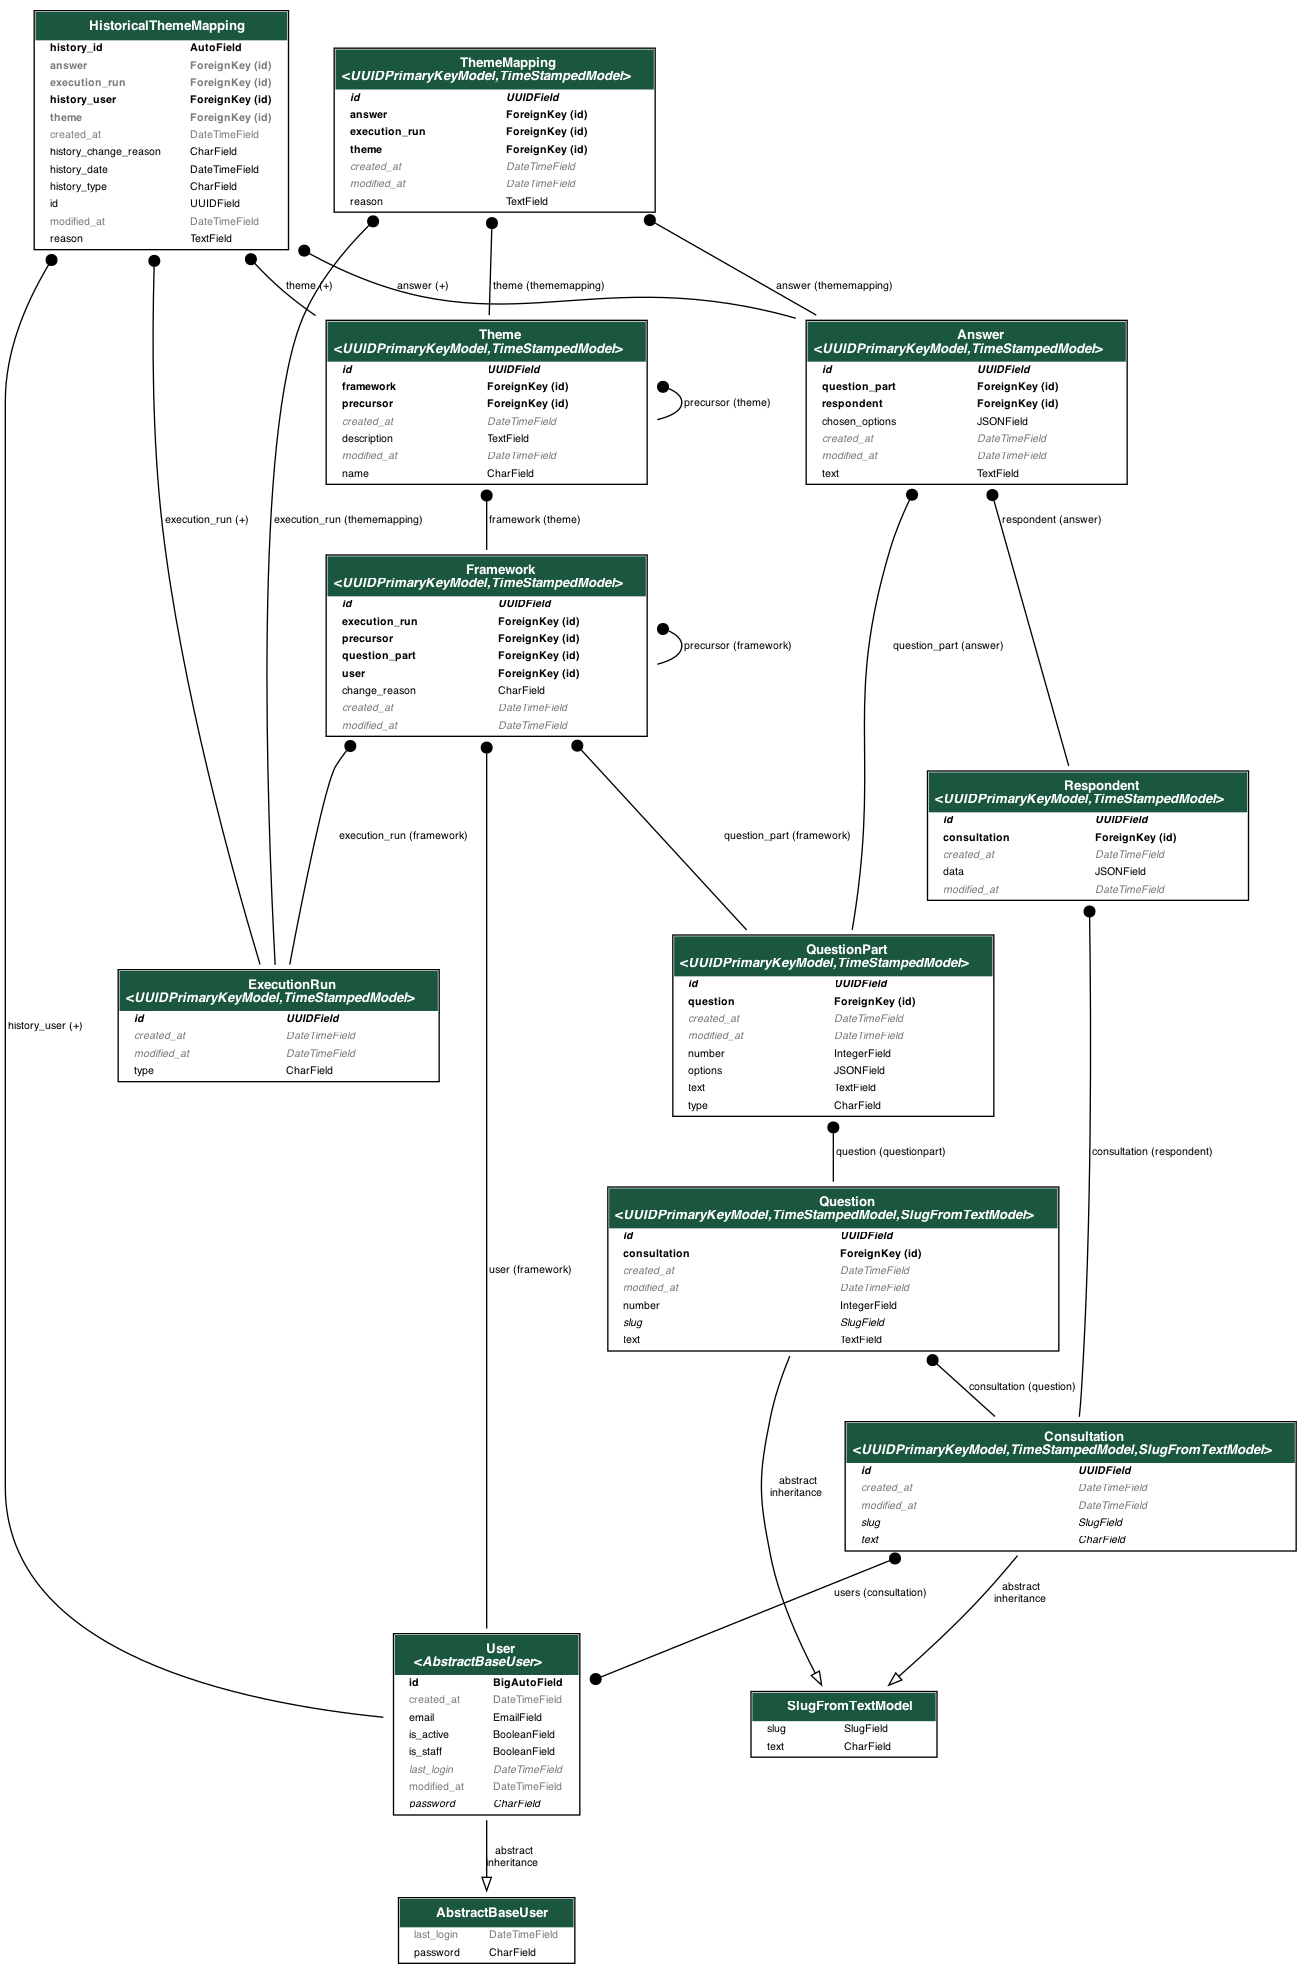
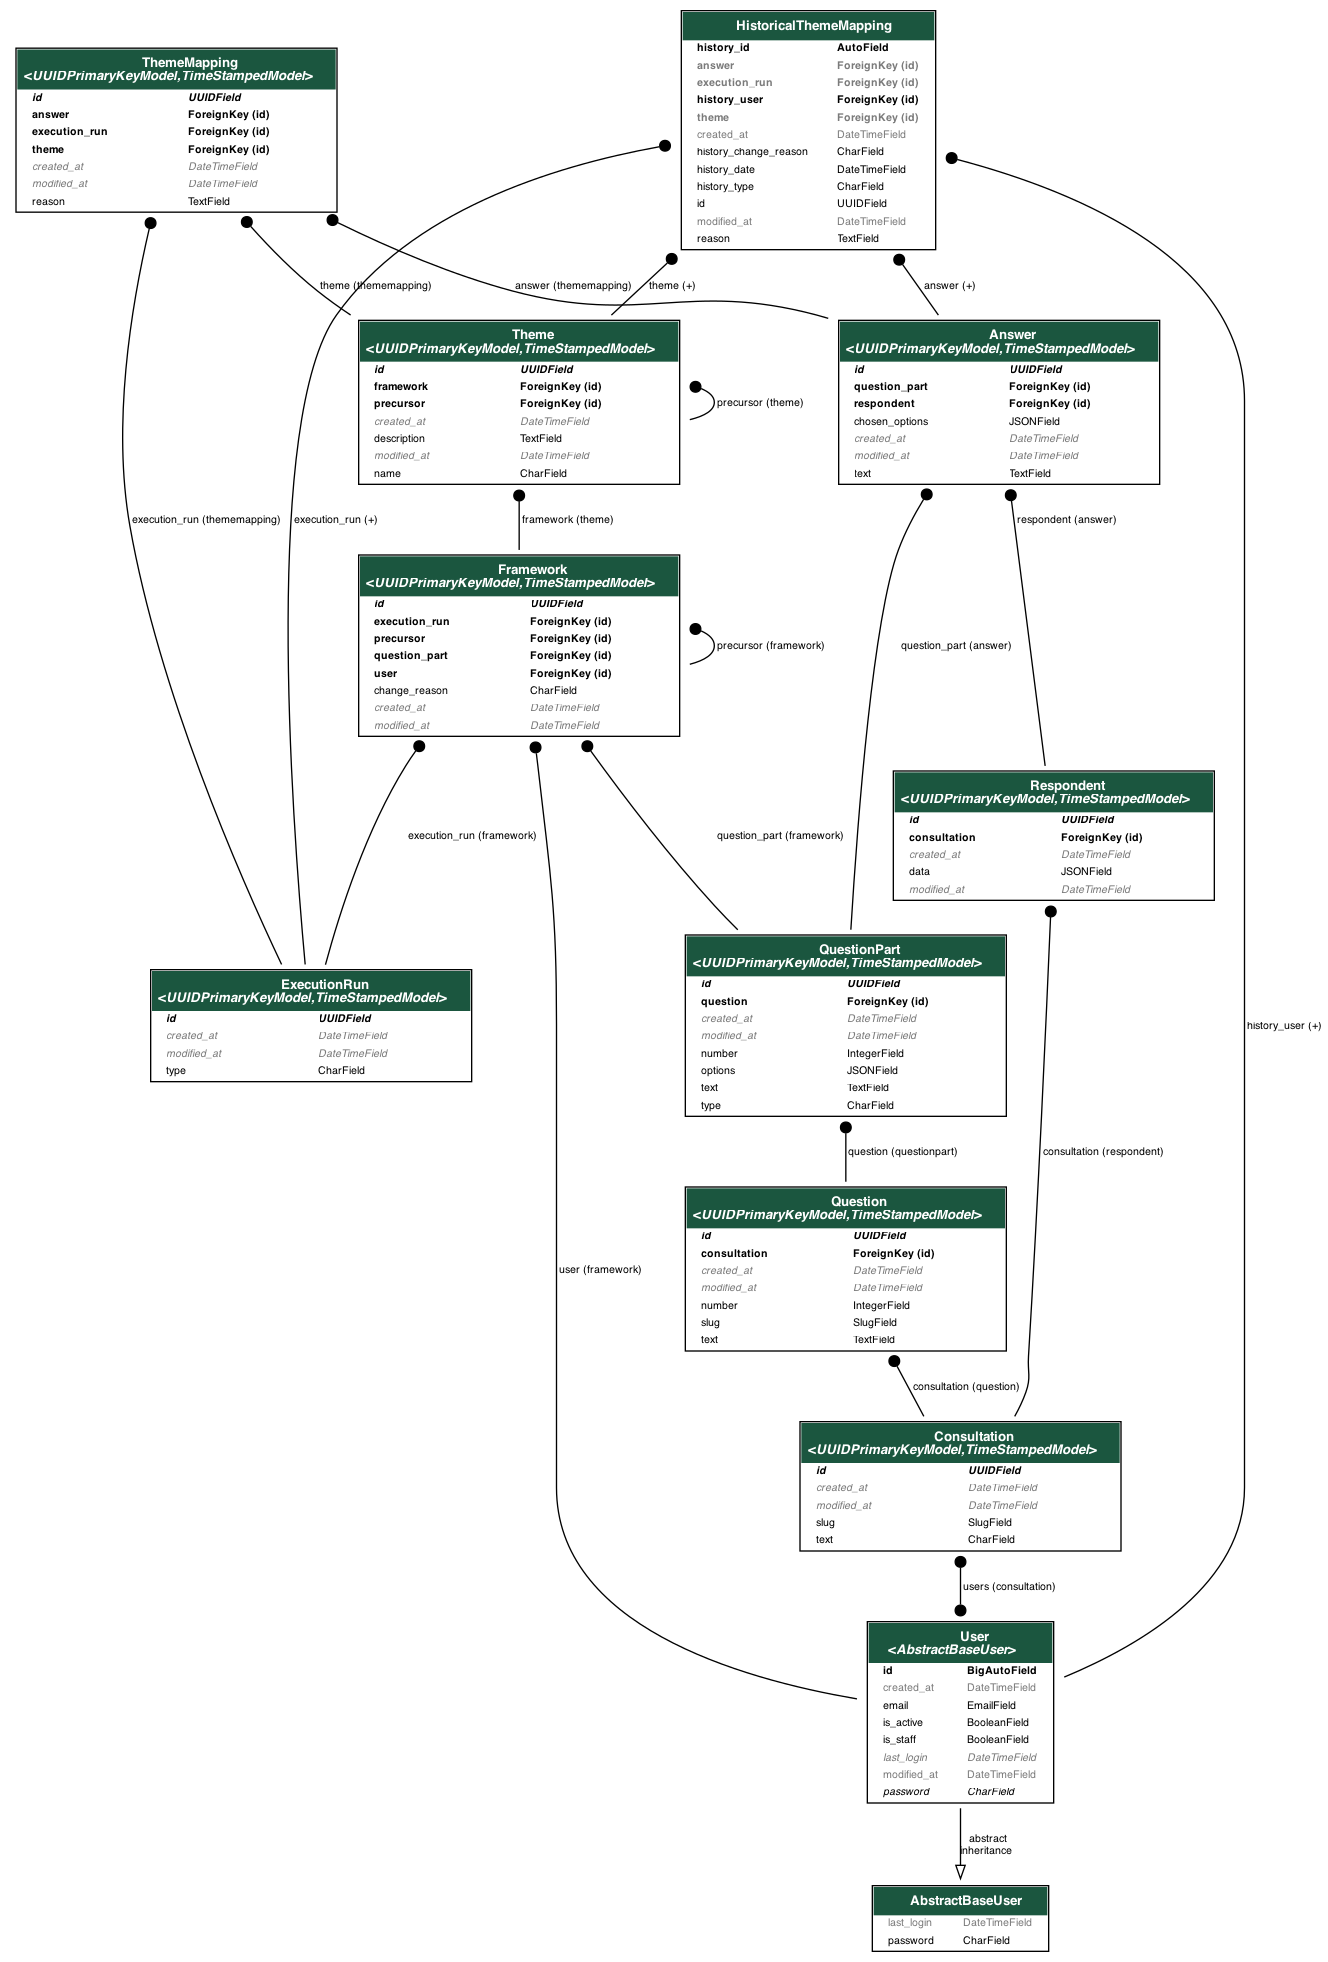
Change 'text' to 'title' in Consultation model.

diff --git a/consultation_analyser/support_console/jinja2/support_console/consultations/index.html b/consultation_analyser/support_console/jinja2/support_console/consultations/index.html
@@ -18,7 +18,7 @@
         <tr class="govuk-table__row">
           <td class="govuk-table__cell">
             <a href="{{ url('support_consultation', kwargs={'consultation_id': consultation.id}) }}" class="govuk-link govuk-link--no-visited-state">
-              {{ consultation.text }}
+              {{ consultation.title }}
             </a>
           </td>
           <td class="govuk-table__cell">

diff --git a/consultation_analyser/consultations/jinja2/consultations/consultations/index.html b/consultation_analyser/consultations/jinja2/consultations/consultations/index.html
@@ -12,7 +12,7 @@
       {% for consultation in consultations %}
         <li class="govuk-!-margin-top-2">
           <a href="{{ url('consultation', kwargs={'consultation_slug': consultation.slug}) }}" class="govuk-body-l govuk-link govuk-link--no-visited-state">
-            {{ consultation.text }}
+            {{ consultation.title }}
           </a>
         </li>
       {% endfor %}

diff --git a/tests/unit/models/test_consultation.py b/tests/unit/models/test_consultation.py
@@ -7,12 +7,11 @@ from consultation_analyser.factories import ConsultationFactory
 def test_consultation_save():
     consultation_title = "My First Consultation"
     slugified = "my-first-consultation"
-    consultation = ConsultationFactory(text=consultation_title)
+    consultation = ConsultationFactory(title=consultation_title)
     assert consultation.slug == slugified
-    another_consultation = ConsultationFactory(text=consultation_title)
+    another_consultation = ConsultationFactory(title=consultation_title)
     assert another_consultation.slug != consultation.slug
     assert another_consultation.slug == f"{slugified}-1"
-    yet_another_consultation = ConsultationFactory(text=consultation_title)
+    yet_another_consultation = ConsultationFactory(title=consultation_title)
     assert yet_another_consultation.slug != consultation.slug
     assert yet_another_consultation.slug == f"{slugified}-2"
-

diff --git a/tests/integration/test_managing_consultations_via_support.py b/tests/integration/test_managing_consultations_via_support.py
@@ -16,7 +16,7 @@ def test_managing_consultations_via_support(django_app):
     consultations_page = consultations_page.form.submit("generate_dummy_consultation")
 
     latest_consultation = Consultation.objects.all().order_by("created_at").last()
-    consultation_page = consultations_page.click(latest_consultation.text)
+    consultation_page = consultations_page.click(latest_consultation.title)
 
     # and I should be able to delete the consultation
     confirmation_page = consultation_page.click("Delete this consultation")

diff --git a/tests/integration/test_managing_consultation_users_via_support.py b/tests/integration/test_managing_consultation_users_via_support.py
@@ -19,7 +19,7 @@ def test_managing_consultation_users_via_support(django_app):
     consultations_page = consultations_page.form.submit("generate_dummy_consultation")
 
     latest_consultation = Consultation.objects.all().order_by("created_at").last()
-    consultation_page = consultations_page.click(latest_consultation.text)
+    consultation_page = consultations_page.click(latest_consultation.title)
 
     assert "email2222@example.com" not in consultation_page
 

diff --git a/tests/integration/test_adding_users_to_consultations_via_support.py b/tests/integration/test_adding_users_to_consultations_via_support.py
@@ -20,7 +20,7 @@ def test_adding_users_to_consultations_via_support(django_app):
     consultations_index = consultations_index.form.submit("generate_dummy_consultation")
 
     latest_consultation = Consultation.objects.all().order_by("created_at").last()
-    consultation_page = consultations_index.click(latest_consultation.text)
+    consultation_page = consultations_index.click(latest_consultation.title)
 
     assert user.email in consultation_page
 

diff --git a/consultation_analyser/consultations/migrations/0034_rename_text_consultation_title.py b/consultation_analyser/consultations/migrations/0034_rename_text_consultation_title.py
@@ -1,0 +1,17 @@
+# Generated by Django 5.1.4 on 2025-01-17 13:58
+
+from django.db import migrations
+
+
+class Migration(migrations.Migration):
+    dependencies = [
+        ("consultations", "0033_remove_historicalexecutionrun_history_user_and_more"),
+    ]
+
+    operations = [
+        migrations.RenameField(
+            model_name="consultation",
+            old_name="text",
+            new_name="title",
+        ),
+    ]

diff --git a/consultation_analyser/support_console/forms/add_users_to_consultation_form.py b/consultation_analyser/support_console/forms/add_users_to_consultation_form.py
@@ -21,7 +21,7 @@ class AddUsersToConsultationForm(forms.Form):
         self.has_users = len(users) > 0
 
         self.fields["users"].choices = [(u.id, u.email) for u in users]
-        self.fields["users"].help_text = f"Adding to {consultation.text}"
+        self.fields["users"].help_text = f"Adding to {consultation.title}"
         self.helper = FormHelper()
         if self.has_users:
             self.helper.layout = Layout(

diff --git a/tests/integration/test_user_can_see_consultations.py b/tests/integration/test_user_can_see_consultations.py
@@ -16,7 +16,7 @@ def test_user_can_see_consultations(django_app):
     assert "You do not have any consultations" in landing_page
 
     # but when i add a consultation
-    consultation = ConsultationFactory(text="My First Consultation")
+    consultation = ConsultationFactory(title="My First Consultation")
     consultation.users.add(user)
 
     # and i sign in again

diff --git a/consultation_analyser/consultations/views/answers.py b/consultation_analyser/consultations/views/answers.py
@@ -40,7 +40,7 @@ def index(
     paginated_responses = current_page.object_list
 
     context = {
-        "consultation_name": consultation.text,
+        "consultation_name": consultation.title,
         "consultation_slug": consultation_slug,
         "question": question,
         "free_text_question_part": free_text_question_part,

diff --git a/consultation_analyser/consultations/views/questions.py b/consultation_analyser/consultations/views/questions.py
@@ -45,7 +45,7 @@ def show(
 
     context = {
         "consultation_slug": consultation_slug,
-        "consultation_name": consultation.text,
+        "consultation_name": consultation.title,
         "question": question,
         "question_parts": question_parts,
         "total_responses": total_responses,

diff --git a/consultation_analyser/factories.py b/consultation_analyser/factories.py
@@ -23,7 +23,7 @@ class ConsultationFactory(DjangoModelFactory):
     class Meta:
         model = models.Consultation
 
-    text = factory.LazyAttribute(lambda o: fake.sentence())
+    title = factory.LazyAttribute(lambda o: fake.sentence())
 
 
 class QuestionFactory(DjangoModelFactory):
